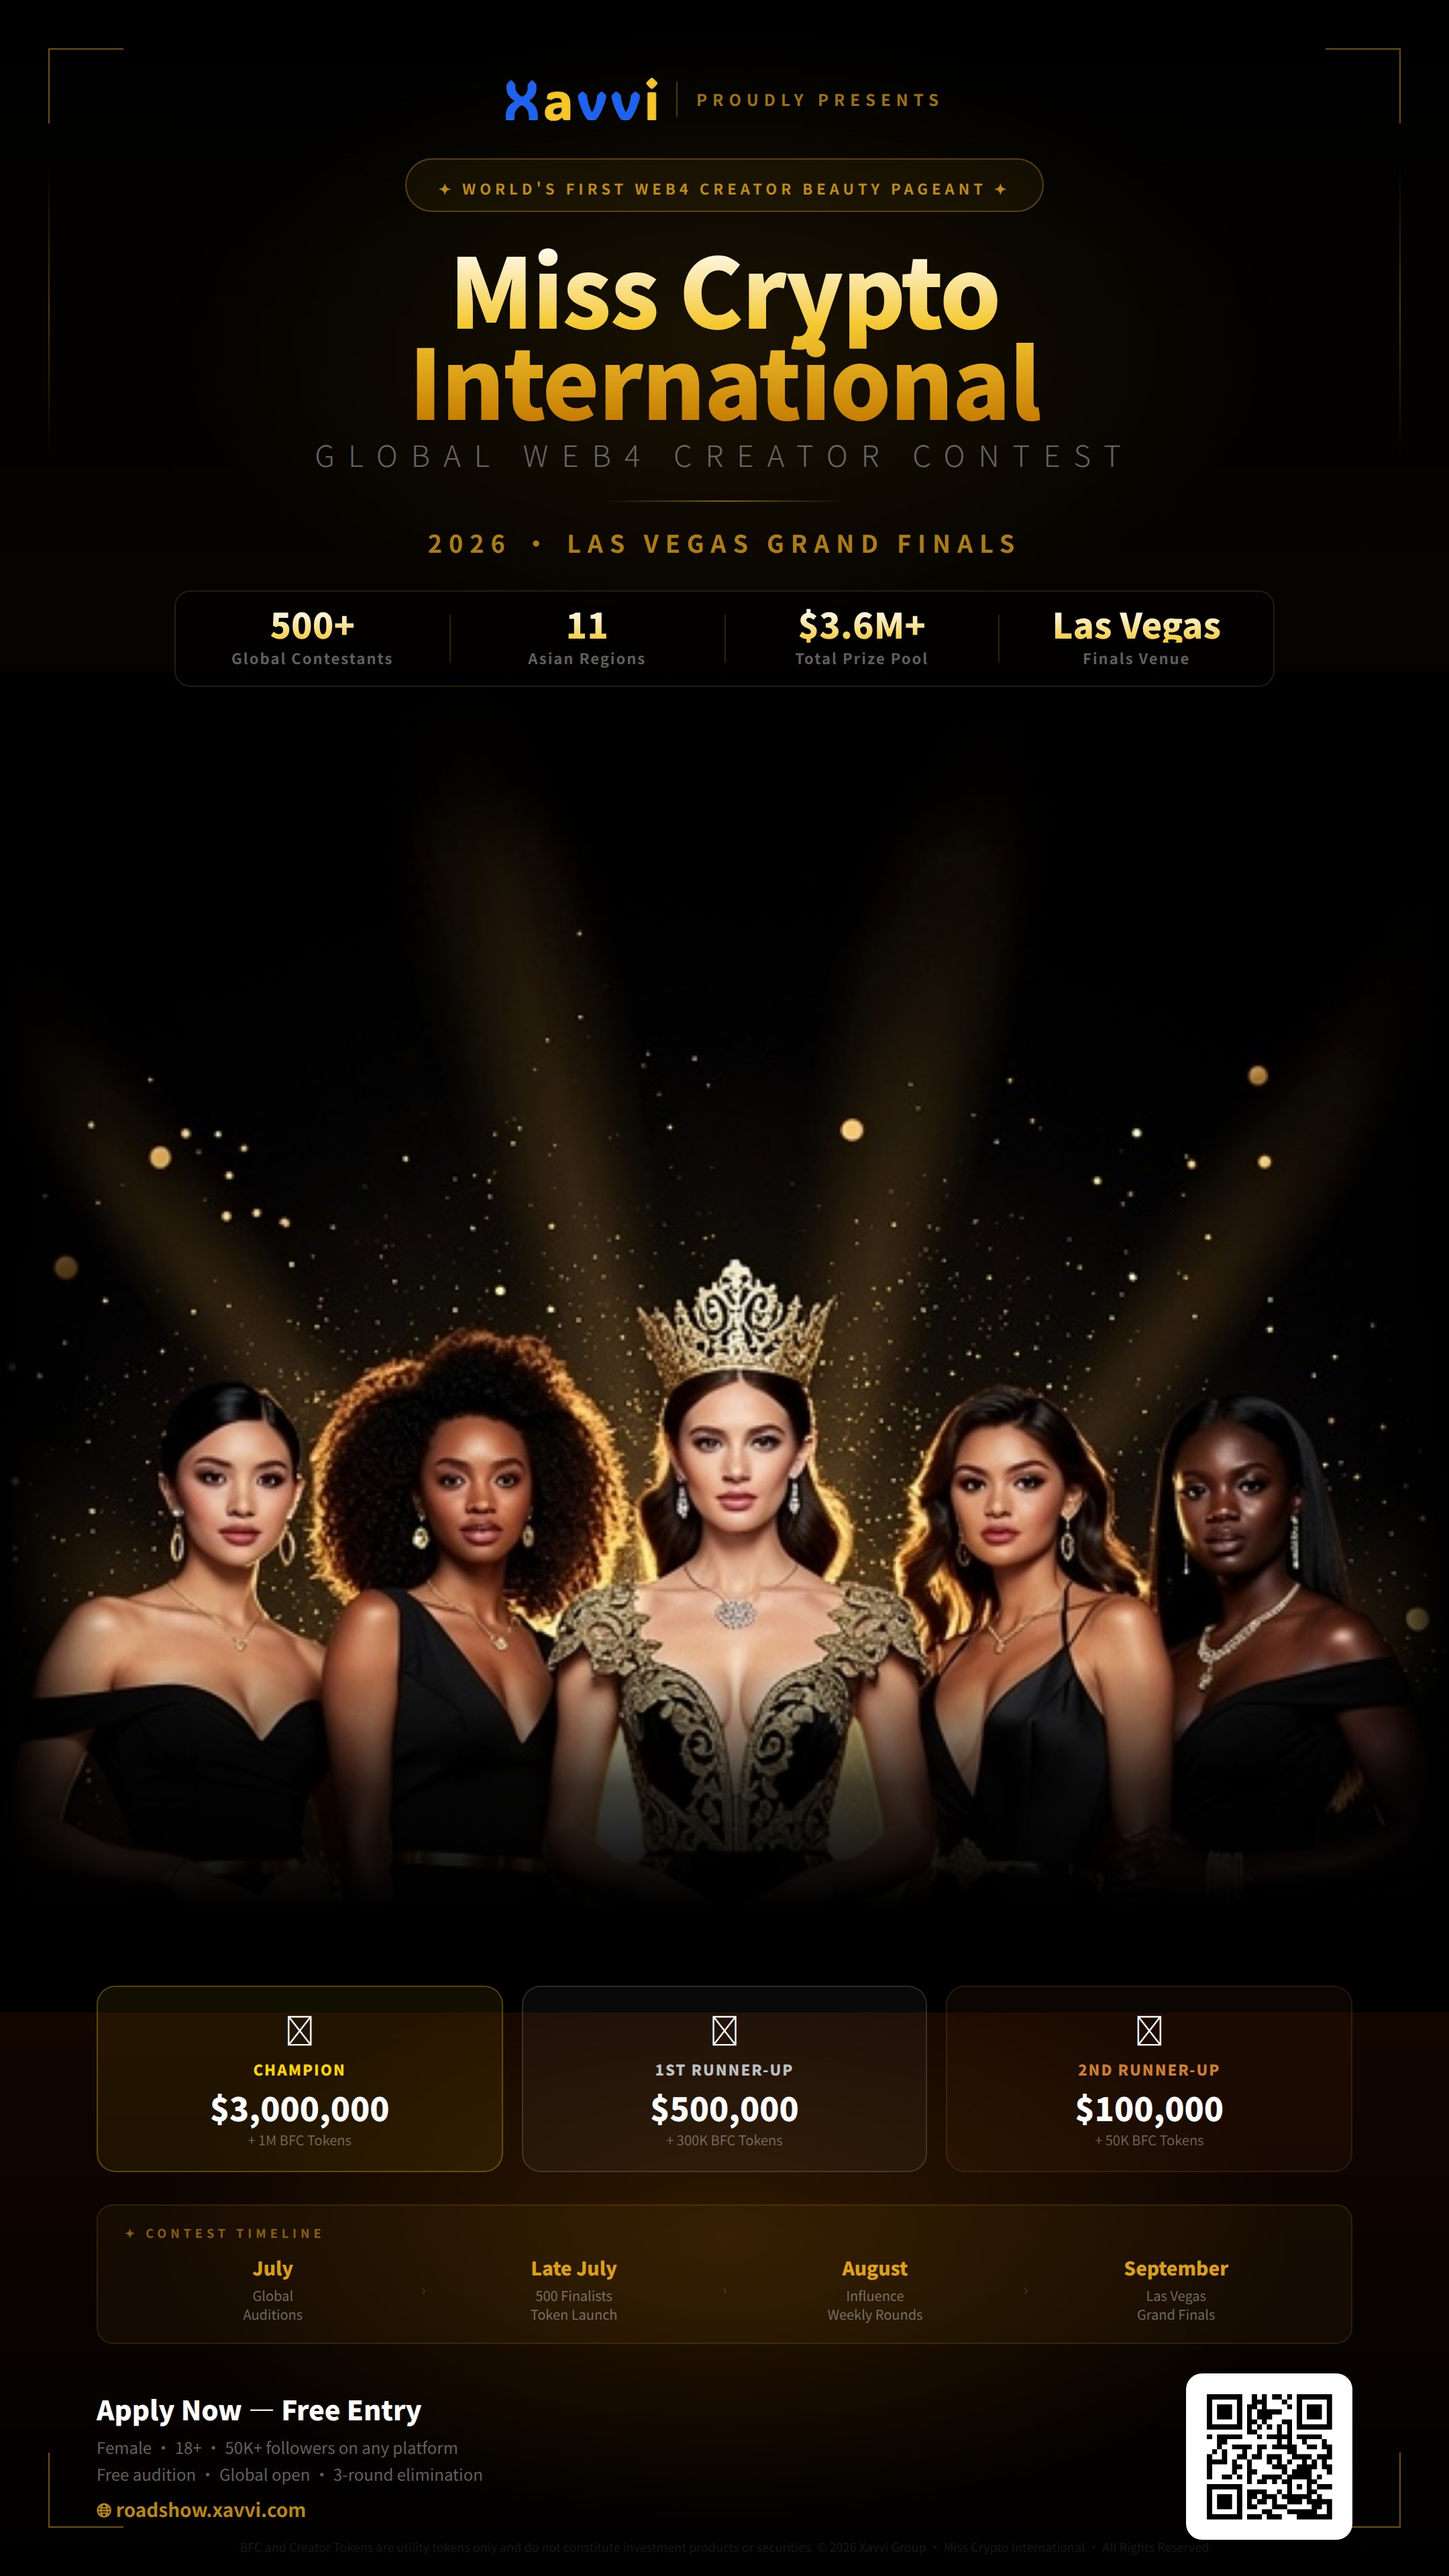
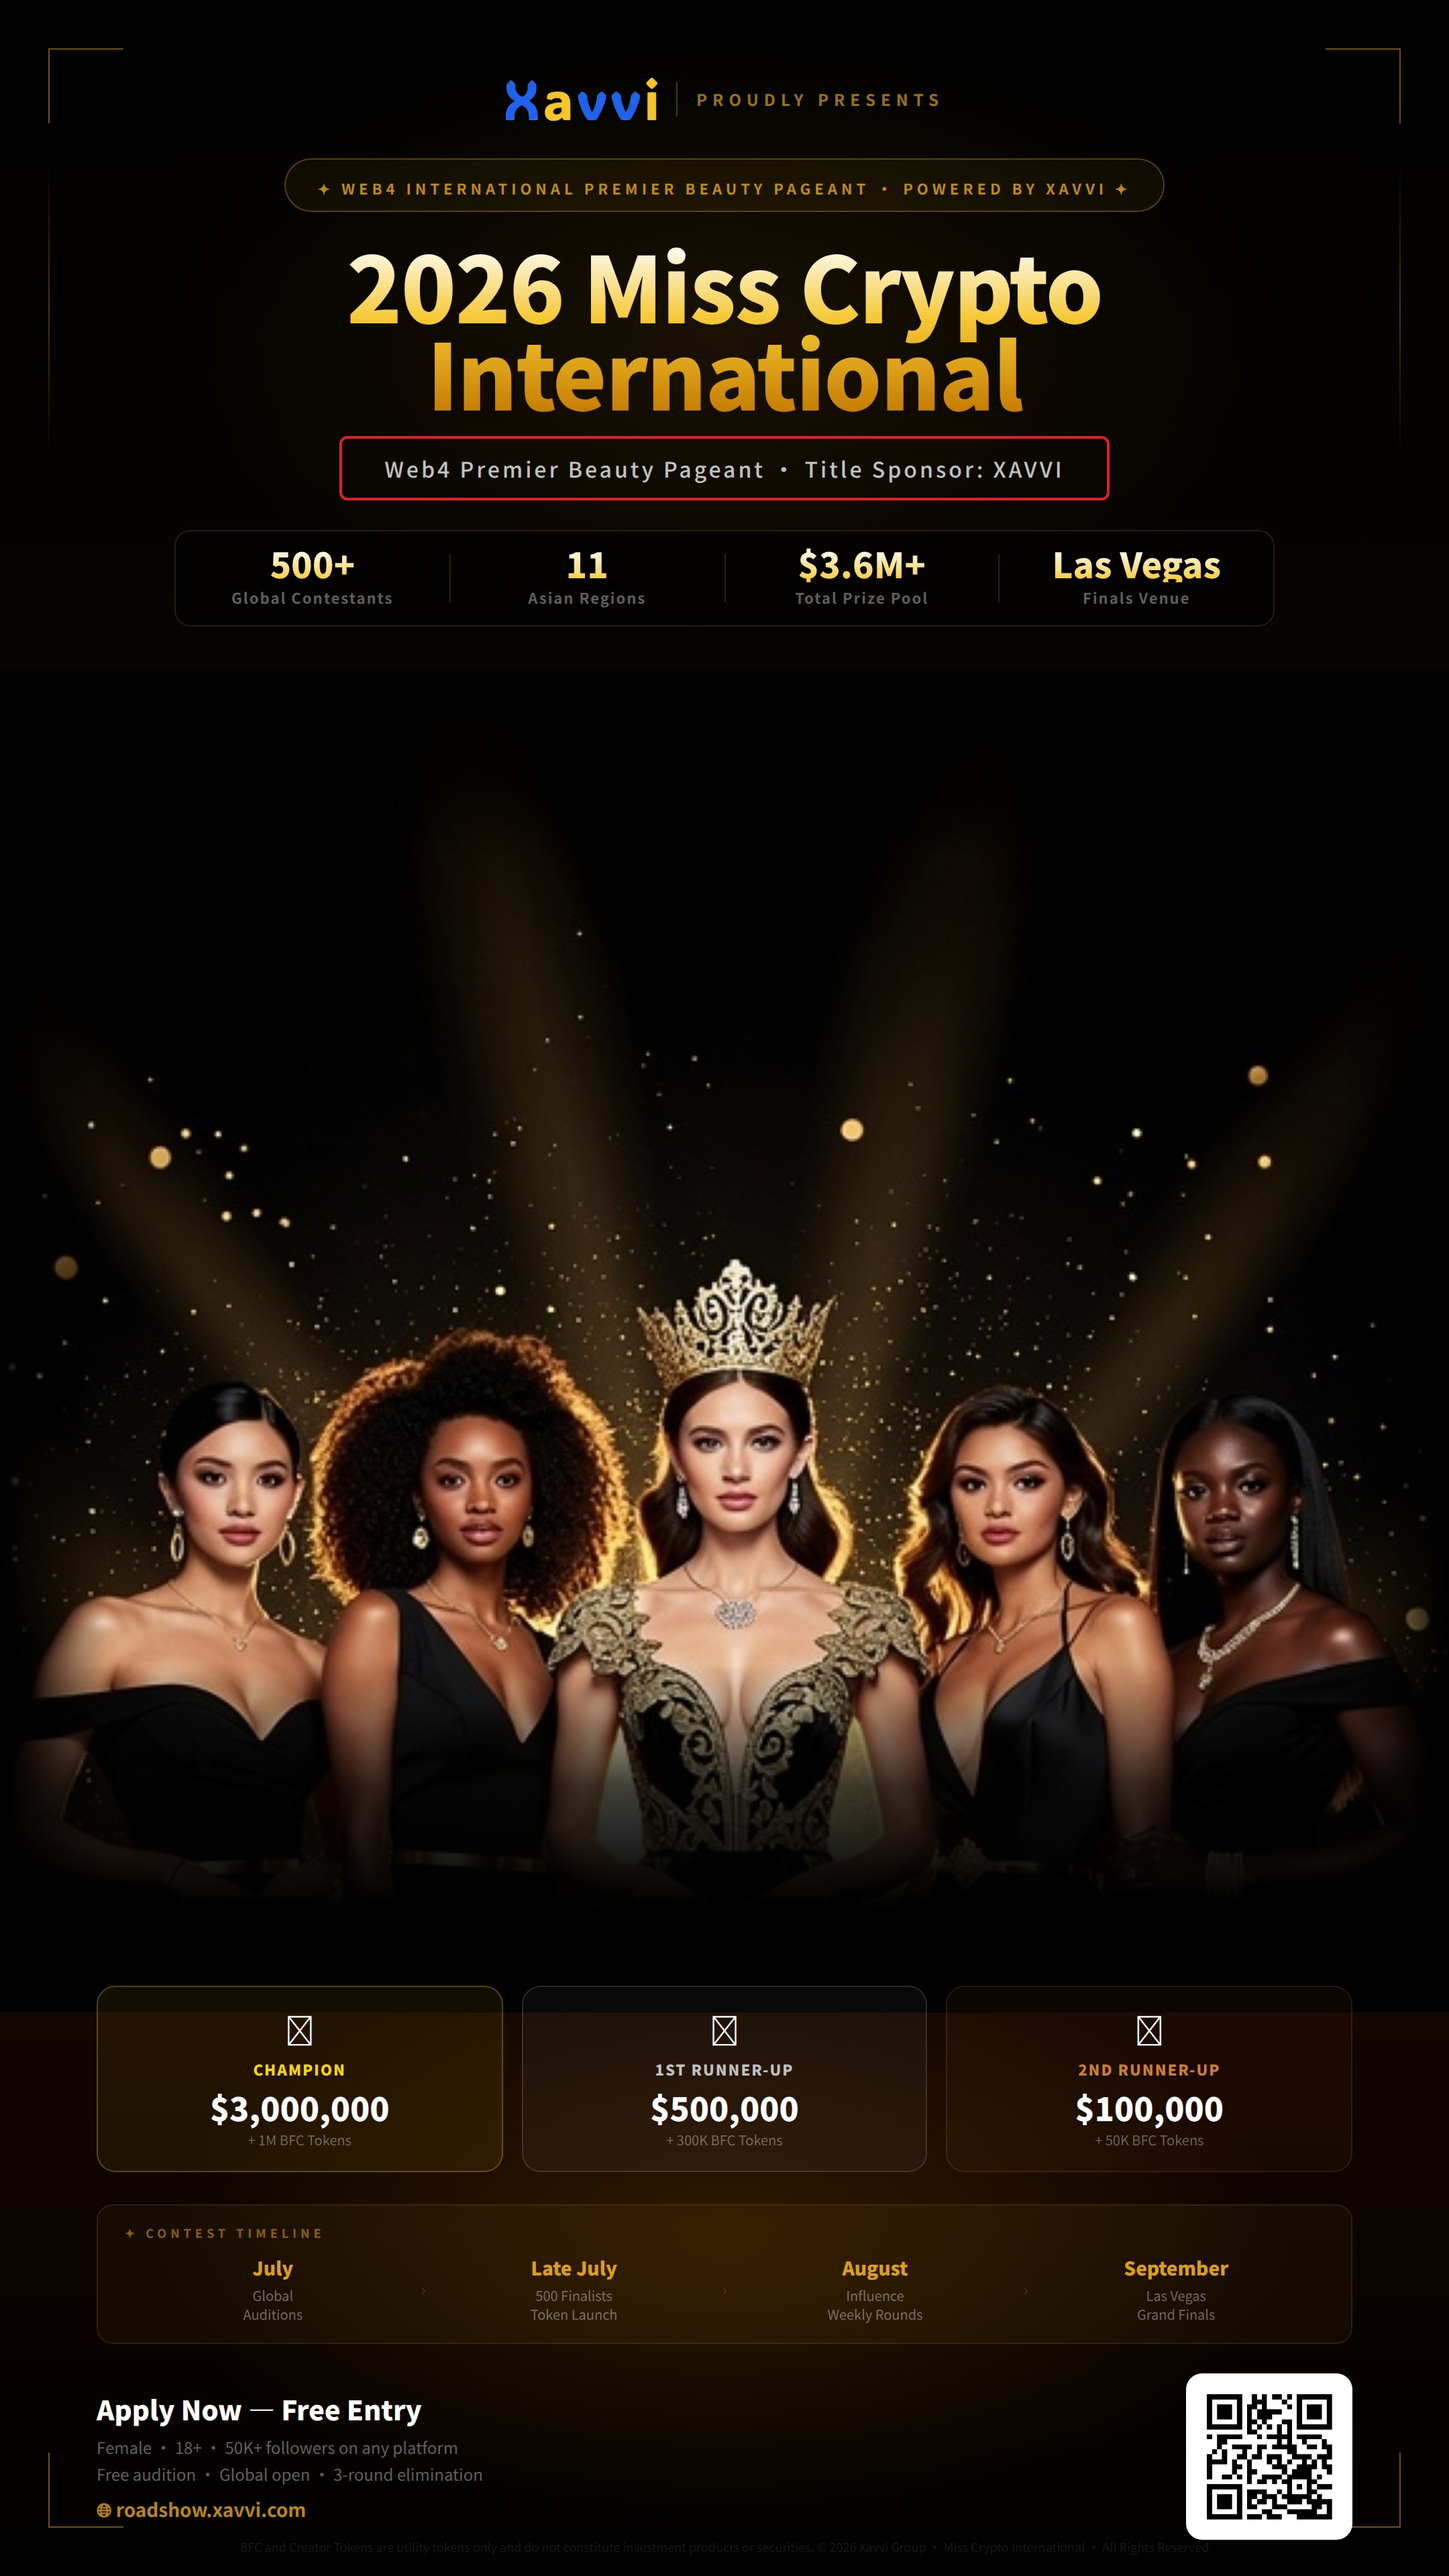
feat: poster title → '2026国际加密小姐大赛' + red box tagline 'Web4国际顶级选美盛典·总冠名:XAVVI'

Changed region(s): [[0.1861, 0.0938, 0.8375, 0.25]]

diff --git a/miss-crypto-poster-en.html b/miss-crypto-poster-en.html
@@ -35,6 +35,7 @@ body{width:1080px;height:1920px;background:#000;font-family:'PingFang SC','Noto 
 .main-en{font-size:22px;font-weight:300;letter-spacing:10px;color:rgba(255,255,255,0.38);text-align:center;text-transform:uppercase;margin-bottom:18px;}
 .divider-line{width:180px;height:1px;background:linear-gradient(to right,transparent,rgba(245,180,30,0.5),transparent);margin:0 auto 18px;}
 .sub-tagline{font-size:18px;font-weight:700;letter-spacing:5px;color:rgba(245,180,30,0.7);text-align:center;text-transform:uppercase;margin-bottom:22px;}
+.sub-tagline-box{border:2px solid #e02020;border-radius:6px;padding:10px 32px;font-size:16px;font-weight:500;color:rgba(255,255,255,0.75);letter-spacing:2px;margin-bottom:22px;display:inline-block;}
 
 /* stats strip */
 .stats-strip{display:flex;align-items:center;gap:0;background:rgba(0,0,0,0.6);border:1px solid rgba(245,180,30,0.15);border-radius:12px;padding:12px 0;width:820px;}
@@ -110,11 +111,9 @@ body{width:1080px;height:1920px;background:#000;font-family:'PingFang SC','Noto 
     <div class="logo-sep"></div>
     <div class="logo-txt">Proudly Presents</div>
   </div>
-  <div class="badge"><span>✦ World's First Web4 Creator Beauty Pageant ✦</span></div>
-  <div class="main-title" style="font-size:72px;letter-spacing:-1px;">Miss Crypto<br/>International</div>
-  <div class="main-en">Global Web4 Creator Contest</div>
-  <div class="divider-line"></div>
-  <div class="sub-tagline">2026 · Las Vegas Grand Finals</div>
+  <div class="badge"><span>✦ Web4 International Premier Beauty Pageant · Powered by XAVVI ✦</span></div>
+  <div class="main-title" style="font-size:68px;letter-spacing:-1px;margin-bottom:16px;">2026 Miss Crypto<br/>International</div>
+  <div class="sub-tagline-box">Web4 Premier Beauty Pageant · Title Sponsor: XAVVI</div>
   <div class="stats-strip">
     <div class="s-item"><div class="s-num">500+</div><div class="s-lbl">Global Contestants</div></div>
     <div class="s-sep"></div>

diff --git a/miss-crypto-poster.html b/miss-crypto-poster.html
@@ -35,6 +35,7 @@ body{width:1080px;height:1920px;background:#000;font-family:'PingFang SC','Noto 
 .main-en{font-size:22px;font-weight:300;letter-spacing:10px;color:rgba(255,255,255,0.38);text-align:center;text-transform:uppercase;margin-bottom:18px;}
 .divider-line{width:180px;height:1px;background:linear-gradient(to right,transparent,rgba(245,180,30,0.5),transparent);margin:0 auto 18px;}
 .sub-tagline{font-size:18px;font-weight:700;letter-spacing:5px;color:rgba(245,180,30,0.7);text-align:center;text-transform:uppercase;margin-bottom:22px;}
+.sub-tagline-box{border:2px solid #e02020;border-radius:6px;padding:10px 32px;font-size:17px;font-weight:500;color:rgba(255,255,255,0.75);letter-spacing:2px;margin-bottom:22px;display:inline-block;}
 
 /* stats strip */
 .stats-strip{display:flex;align-items:center;gap:0;background:rgba(0,0,0,0.6);border:1px solid rgba(245,180,30,0.15);border-radius:12px;padding:12px 0;width:820px;}
@@ -110,7 +111,7 @@ body{width:1080px;height:1920px;background:#000;font-family:'PingFang SC','Noto 
     <div class="logo-sep"></div>
     <div class="logo-txt">荣耀呈献</div>
   </div>
-  <div class="badge"><span>✦ 全球首届 Web4 网红选美盛典 ✦</span></div>
+  <div class="badge"><span>✦ Web4 国际顶级选美盛典 · Xavvi 集团荣耀呈献 ✦</span></div>
   <div class="main-title">国际加密小姐</div>
   <div class="main-en">Miss Crypto International</div>
   <div class="divider-line"></div>
